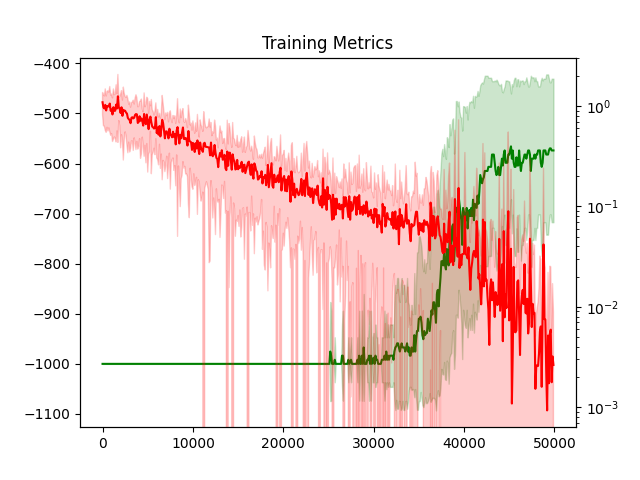
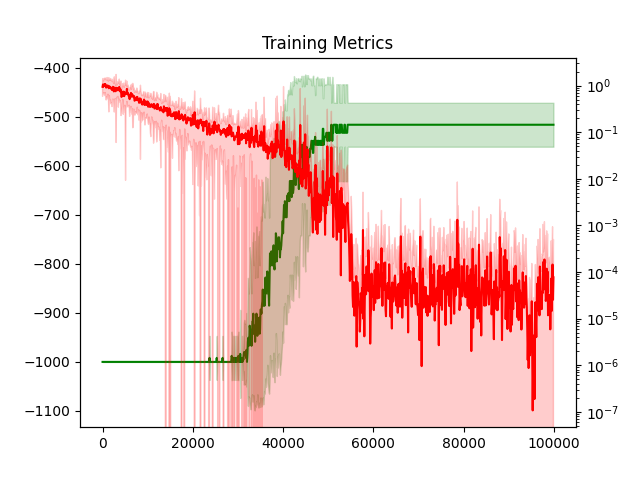
zero lr plot loss, lr sweep

diff --git a/visualizations/loss_plotter.py b/visualizations/loss_plotter.py
@@ -1,0 +1,136 @@
+import os
+import sys
+sys.path.append('../QBounding')
+from matplotlib.backend_bases import FigureCanvasBase
+import numpy as np
+import matplotlib.pyplot as plt
+import pandas as pd
+import seaborn as sns
+from scipy.signal import savgol_filter
+import matplotlib.image as mpimg 
+from visualization import plot_dist
+
+name_to_color = {
+    'q': 'k',
+    'lb': 'b',
+    'ub': 'r',
+    'rewards': 'g',
+    'loss': 'r'
+}
+
+FONTSIZE = 18
+from gymnasium.wrappers import TimeLimit
+from tabular import ModifiedFrozenLake
+SKIP_POINTS = 10
+
+# First, let's solve the problem exactly, so we can put inset of the policy
+# and value function:
+env_str = '7x7zigzag'
+env = ModifiedFrozenLake(map_name=env_str,cyclic_mode=False,slippery=0)
+env = TimeLimit(env, max_episode_steps=1000)
+# env = gymnasium.make('FrozenLake-v1', is_slippery=False)
+beta = 5
+gamma = 0.98
+from tabular import ModifiedFrozenLake, softq_solver
+Q, V, pi = softq_solver(env, beta=beta, gamma=gamma, tolerance=1e-14)
+plot_dist(env.desc, pi, show_plot=False, filename='visualizations/policy.png', dpi=600)#, fontsize=FONTSIZE)
+
+def load_data(data_folder):
+    files = os.listdir(data_folder)
+    # load in data from each file into a pandas dataframe:
+    data = []
+    # make a dataframe to load the files into:
+    names = ['q', 'qstd', 'lb', 'lbstd', 'ub', 'ubstd', 'rewards', 'loss', 'times']
+    df = pd.DataFrame(columns=names)
+    for file in files:
+        if file[-3:] != 'npy':
+            continue
+        path = os.path.join(data_folder, file)
+        npz = np.load(path)
+        # Normalize the rewards between 0 and 1:
+        npz[-3,:] = (npz[-3,:] - npz[-3,:].min()) / (-508 - -1000)#(npz[-3,:].max() - npz[-3,:].min())
+        new_df = pd.DataFrame(npz.T, columns=names)
+        # add the new data to the df:
+        df = pd.concat([df, new_df], axis=0)
+
+    # Take means and standard error of the mean
+    df = df.groupby('times').agg(['mean', 'std'])
+    df = df.reset_index()
+
+    return df
+
+
+def add_to_plot(ax, df, name, data_label, color, marker):
+    # Smooth out the plot using a moving average with increased window_length
+    smoothed_values = df[name]['mean'][::SKIP_POINTS]
+    smoothed_values = savgol_filter(df[name]['mean'], window_length=10, polyorder=3)[::SKIP_POINTS]
+
+    ax.plot(df['times'][::SKIP_POINTS] / 10_000, smoothed_values, label=f'{data_label}', 
+            color=color, linestyle='-', marker=marker, markersize=8, lw=3)
+    
+    n_runs = 30#len(df[name]['mean'])
+    if name in ['q', 'lb', 'ub']:
+        ax.fill_between(df['times'][::SKIP_POINTS] / 10_000, 
+                        smoothed_values - df[name+'std']['mean'][::SKIP_POINTS] / np.sqrt(n_runs),
+                        smoothed_values + df[name+'std']['mean'][::SKIP_POINTS] / np.sqrt(n_runs),
+                        alpha=0.2, color=color)
+    else:
+        ax.fill_between(df['times'][::SKIP_POINTS] / 10_000, 
+                        smoothed_values - df[name]['std'][::SKIP_POINTS] / np.sqrt(n_runs),
+                        smoothed_values + df[name]['std'][::SKIP_POINTS] / np.sqrt(n_runs),
+                        alpha=0.2, color=color)
+
+    return ax
+
+# sns.set_style('whitegrid')
+plt.rcParams.update({'font.size': FONTSIZE, 'axes.labelcolor': 'black'})
+# families =
+plt.rc('font', family='sans-serif', serif='Helvetica')
+
+# Set a fixed width for the figure to prevent horizontal shrinking
+fig, ax = plt.subplots(figsize=(10, 6))
+
+folders = ['clip-0.98data', 'naiveclip-0.98data', '0.98data', 'lr0.00clip-0.98data']
+labels = ['Clipping:\nProposed Bounds', "Clipping:\nBaseline Bounds", 'No Clipping', 'Zero LR']
+colors = ['#FF5733', '#007acc',  '#333333', '#f01abe']
+markers = ['o', '^', 's', 'd']
+
+for label, folder, color, marker in zip(labels, folders, colors, markers):
+    df = load_data(folder)
+    ax = add_to_plot(ax, df, 'loss', label, color, marker)
+
+# plt.title(r'Effect of Bounds in Soft $Q$-Learning ', fontsize=1.5*FONTSIZE, pad=20)  # Add padding to the title
+plt.xlabel(r'Environment Steps $\times 10^4$', fontsize=FONTSIZE)
+plt.ylabel('Loss', fontsize=FONTSIZE)
+plt.ylim(-0.01, 1.01)
+plt.xlim(0, 8)#_000)
+
+# Adjust legend placement
+plt.legend(loc='upper center', bbox_to_anchor=(0.5, -0.2), fancybox=True, shadow=False, ncol=3, fontsize=FONTSIZE)
+
+# Add grid lines
+ax.grid(True, linestyle='--', alpha=0.7)
+
+# Adjust tick marks and labels
+ax.tick_params(axis='both', which='both', labelsize=FONTSIZE)
+
+# Provide a light gray background
+ax.set_facecolor('#f5f5f5')
+
+plt.rcParams.update({'figure.figsize': (60,60)})
+
+plt.tight_layout()
+
+# Add the inset plot using the saved image
+inset = fig.add_axes([0.557, 0.4, 0.4, 0.4])
+
+# Load the saved image
+inset_image_path = 'visualizations/policy.png'
+inset_image = mpimg.imread(inset_image_path, format='png')
+
+# Display the image in the inset with high resolution:
+inset.imshow(inset_image)#, interpolation='none')
+inset.axis('off')  
+
+# Save the total figure
+fig.savefig('visualizations/loss_comparison.png', bbox_inches='tight', dpi=600)

diff --git a/plot_lr_sensitivity.py b/plot_lr_sensitivity.py
@@ -1,0 +1,81 @@
+import matplotlib.pyplot as plt
+import pandas as pd
+import numpy as np
+
+# Load the data from avg_rewards.csv:
+df = pd.read_csv('avg_rewards.csv')
+
+# Define a function to calculate SEM
+def sem(x):
+    return np.std(x, ddof=1) / np.sqrt(len(x))
+
+# Aggregate by group, calculating mean and SEM
+result = df.groupby(['lr', 'clip', 'naive'])['avg_reward'].agg(['mean', sem])
+
+# Rename columns for clarity
+# result.columns = ['Mean', 'SEM']
+
+# df = df.groupby(['lr', 'clip', 'naive']).agg({'avg_reward': ['mean', 'std']})
+df = result.reset_index()
+
+# Define a mapping for methods
+methods = {
+    'hard': {'clip': True, 'naive': False},
+    'naive': {'clip': True, 'naive': True},
+    'none': {'clip': False, 'naive': False},
+}
+
+# Use map to look up the method based on 'clip' and 'naive' values
+# df['method'] = df.apply(lambda row: next((key for key, value in methods.items() if value == {'clip': row['clip'], 'naive': row['naive']}), ''), axis=1)
+
+# Drop unnecessary columns
+# df = df.drop(columns=[('avg_reward', 'mean'), ('avg_reward', 'std')])
+
+# Reorder columns for clarity (optional)
+# df = df[['lr', 'clip', 'naive', 'method', 'avg_reward_mean', 'avg_reward_std']]
+
+# Rename columns for clarity
+# df.columns = ['lr', 'clip', 'naive', 'method', 'avg_reward_mean', 'avg_reward_std']
+
+
+labels = ['Clipping:\nProposed Bounds', "Clipping:\nBaseline Bounds", 'No Clipping']
+colors = ['#FF5733', '#007acc',  '#333333']
+markers = ['o', '^', 's']
+
+# Plot each of the methods in a different color:
+for method, label, color, marker in zip(methods.keys(), labels, colors, markers):
+    clip = methods[method]["clip"]
+    naive = methods[method]["naive"]
+
+    # get rows with clip == clip and naive == naive:
+    subdf = df[(df['clip'] == clip) & (df['naive'] == naive)]#[1:]
+    if not subdf.empty:
+        norm = 1# len(subdf)**0.5
+        # norm = 10**0.5
+        WINDOW = 1
+        # Smooth out the plot using a moving average with increased window_length
+        rwds = subdf['mean']
+        rwds = rwds.rolling(window=WINDOW).mean()
+        # Also smooth the standard deviation:
+        std = subdf['sem']
+        std = std.rolling(window=WINDOW).mean()
+        if method == 'naive':
+            markersize = 8
+        else:
+            markersize = 4
+        plt.plot(subdf['lr'], rwds, label=label, color=color, marker=marker, markersize=markersize)
+        plt.fill_between(subdf['lr'], rwds - std / norm,
+                         rwds + std / norm, alpha=0.2,
+                            color=color)
+
+plt.xlabel('Learning Rate')
+plt.ylabel('Total Integrated Evaluation Reward (AUC)')
+plt.legend(loc='upper center', bbox_to_anchor=(0.5, 1.25), fancybox=True, shadow=False, ncol=3, fontsize=12)
+# use grid lines with sns style:
+plt.grid(True, linestyle='--', alpha=0.7)
+plt.xlim(0,0.0001)
+
+#plt.title('Learning Rate Sensitivity')
+
+plt.tight_layout()
+plt.savefig('visualizations/lr_sensitivity.png', dpi=300)

diff --git a/tabular_lr_singular.py b/tabular_lr_singular.py
@@ -1,0 +1,36 @@
+from tabular_soln import main
+
+env_str = '7x7zigzag'
+oracle = False
+gamma = 0.98
+
+import argparse
+parser = argparse.ArgumentParser()
+parser.add_argument('--clip', action='store_true')
+parser.add_argument('--naive', action='store_true')
+parser.add_argument('--lr', type=float, default=0.01)
+
+args = parser.parse_args()
+clip = args.clip
+naive = args.naive
+lr = args.lr
+
+rwds = main(env_str=env_str, clip=clip, lr=lr, gamma=gamma, oracle=oracle, naive=naive, save=False)
+
+# Log this run's average reward to a csv file:
+import os
+import pandas as pd
+
+data = {'clip': [clip], 'naive': [naive], 'lr': [lr], 'avg_reward': [rwds]}
+
+path = 'avg_rewards.csv'
+# open the csv in append mode, and add {clip, naive, lr, avg_reward} to the file:
+if os.path.exists(path):
+    df = pd.read_csv(path)
+else:
+    df = pd.DataFrame(columns=['clip', 'naive', 'lr', 'avg_reward'])
+
+# add the new data to the df:
+df = pd.concat([df, pd.DataFrame(data)], axis=0)
+df.to_csv(path, index=False)
+

diff --git a/tabular_lr_sensitivity.py b/tabular_lr_sensitivity.py
@@ -1,0 +1,29 @@
+import os
+import subprocess
+import numpy as np
+
+runs_per_hparam = 5
+
+# Sweep over the learning rate, by launching multiple runs of "tabular_lr_singular.py":
+methods = {
+    'none': {'clip': 'False', 'naive': 'False'},
+    'hard': {'clip': 'True', 'naive': 'False'},
+    'naive': {'clip': 'True', 'naive': 'True'},
+}
+
+# learning_rates = np.logspace(-3, 0, 1000)
+# learning_rates = np.linspace(0.0, 0.01, 5)
+learning_rates = np.linspace(0.0, 0.0001, 10)
+
+
+
+for lr in learning_rates:
+    # Launch a run for each method and 5 runs for each learning rate:
+
+    command1 = f"python tabular_lr_singular.py --lr={lr}"
+    command2 = f"python tabular_lr_singular.py --clip --naive --lr={lr}"
+    command3 = f"python tabular_lr_singular.py --clip --lr={lr}"
+
+    subprocess.run(command3, shell=True)
+    subprocess.run(command2, shell=True)
+    subprocess.run(command1, shell=True)

diff --git a/tabular_soln.py b/tabular_soln.py
@@ -354,7 +354,7 @@ def main(env_str, clip, gamma, oracle, naive, save=True, lr=None):
                 if naive:
                     return 0.65
                 else:
-                    return 0.15
+                    return 0#0.15
             else:
                 return 0.7
         else:
@@ -362,7 +362,7 @@ def main(env_str, clip, gamma, oracle, naive, save=True, lr=None):
 
     sarsa = SoftQLearning(env, beta, gamma, learning_rate_schedule,
                            plot=0, save_data=save, clip=clip, lb=lb, ub=ub,
-                           prefix='oracle'*oracle+'naive'*naive,
+                           prefix='oracle'*oracle+'naive'*naive+f'lr{learning_rate_schedule(0):.2f}',
                            keep_bounds_fixed=naive)
     max_steps = 100_000
 

diff --git a/visualizations/plot_tabular_data.py b/visualizations/plot_tabular_data.py
@@ -54,7 +54,7 @@ def add_to_plot(ax, df, name):
 
 # Get the data:
 gamma=0.98
-for data_folder in [f'clip-{gamma}data', f'{gamma}data', f'naiveclip-{gamma}data']:
+for data_folder in [f'clip-{gamma}data', f'{gamma}data', f'naiveclip-{gamma}data', f'lr0.00clip-{gamma}data']:
     df = load_data(data_folder)
     fig, ax = plt.subplots()
     
